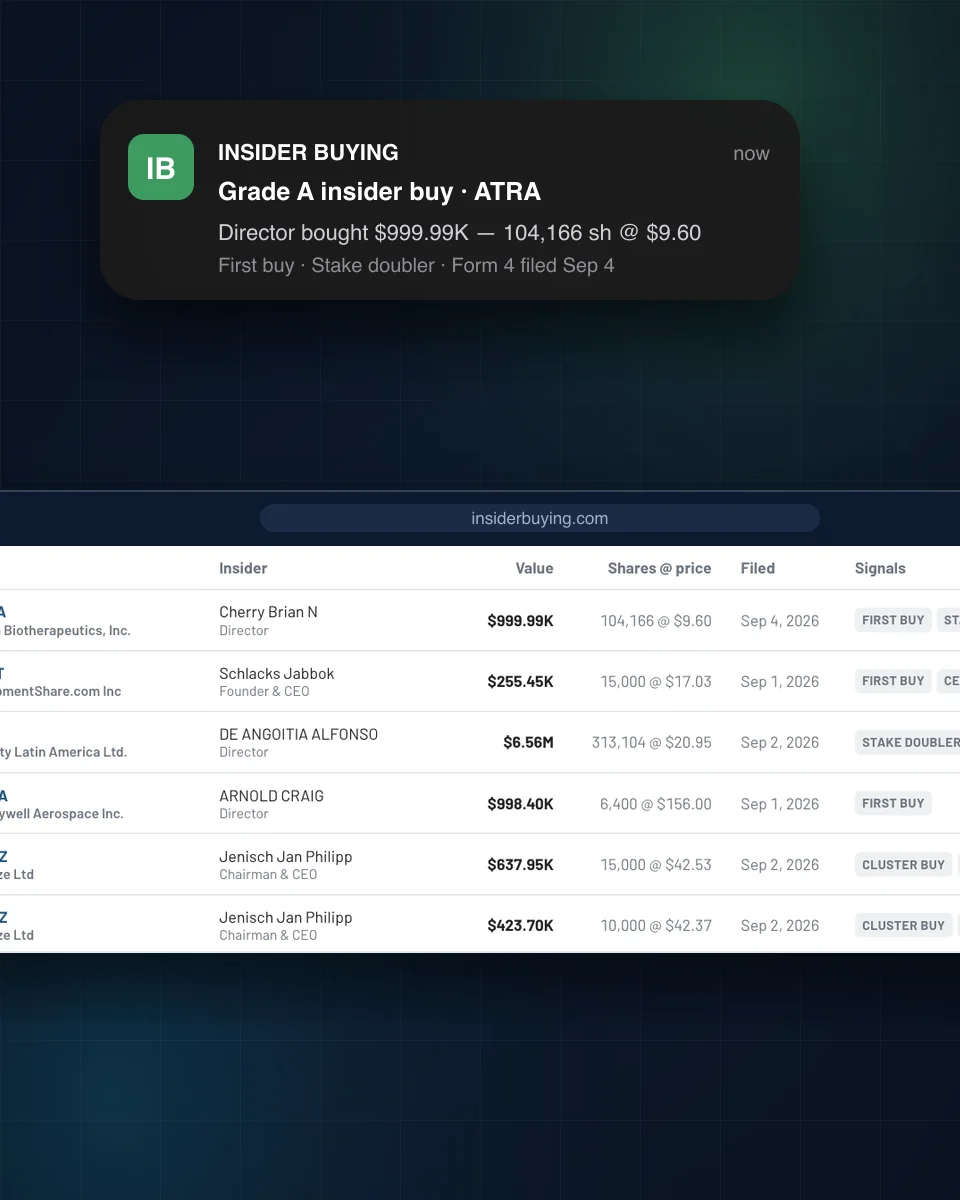
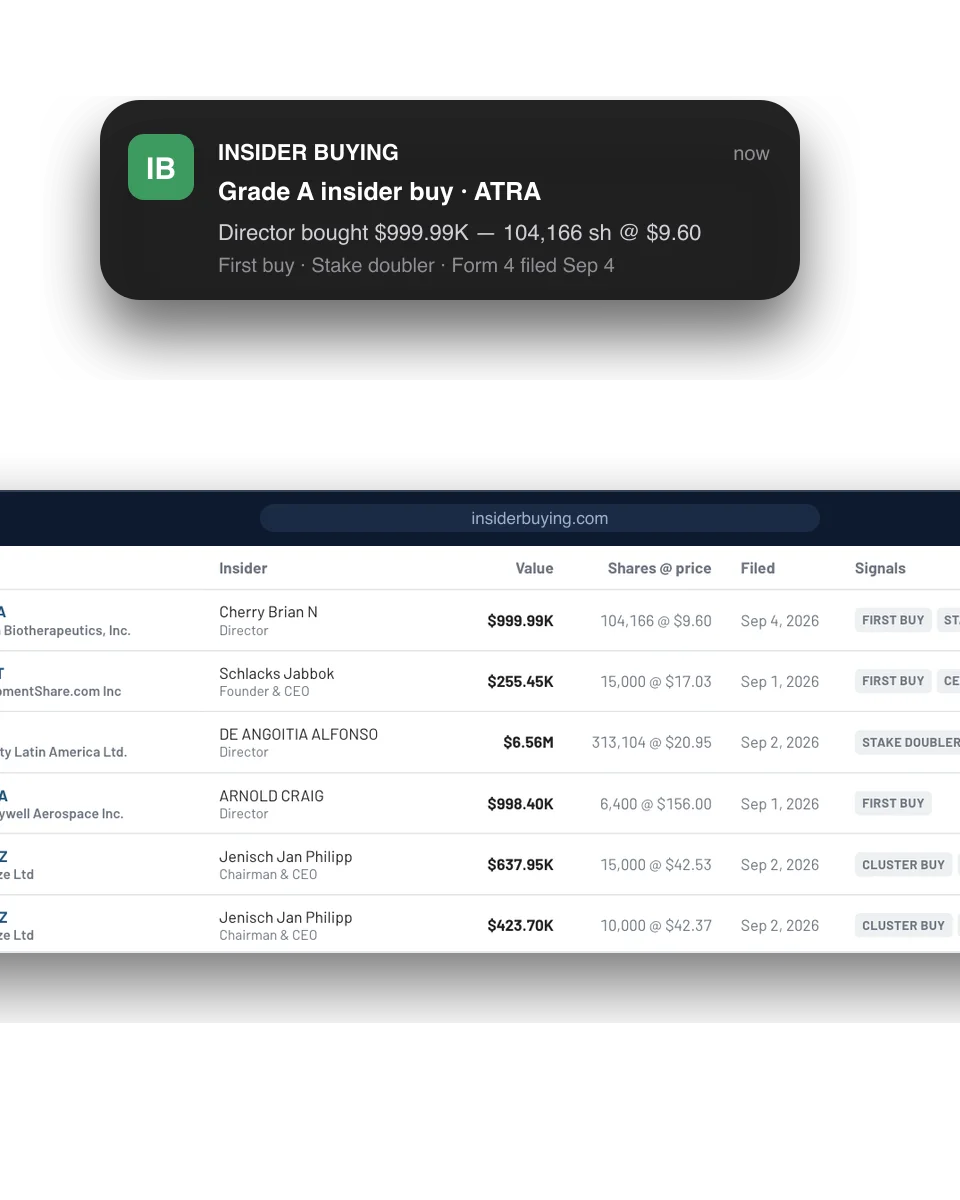
Subscribe page: product visuals render embedded, not as screenshots — transparent compositions float directly on the page, no picture box

diff --git a/frontend/components/premium/ProductShowcase.tsx b/frontend/components/premium/ProductShowcase.tsx
@@ -90,7 +90,7 @@ export const SHOWCASE: ShowcaseVisual[] = [
   },
 ];
 
-const src1x = (f: string) => `/sales/showcase/${f}.jpg`;
+const src1x = (f: string) => `/sales/showcase/${f}.webp`;
 const src2x = (f: string) => `/sales/showcase/${f}@2x.webp`;
 const srcMobile = (f: string) => `/sales/showcase/${f}-mobile.webp`;
 
@@ -135,7 +135,7 @@ export function ProductShowcase({ visuals = SHOWCASE }: { visuals?: ShowcaseVisu
                 <source media="(max-width: 640px)" srcSet={srcMobile(v.file)} type="image/webp" />
                 <source srcSet={`${src2x(v.file)} 2x, ${src1x(v.file)} 1x`} type="image/webp" />
                 <img
-                  src={src1x(v.file)}
+                  src={src2x(v.file)}
                   alt={v.alt}
                   loading="lazy"
                   decoding="async"
@@ -179,22 +179,24 @@ export const SHOWCASE_CSS = `
 .sc-row { margin: 0; display: grid; grid-template-columns: minmax(0, 1.55fr) minmax(280px, 0.85fr); gap: 44px; align-items: center; }
 .sc-row-flip .sc-frame { order: 2; }
 .sc-row-flip .sc-cap { order: 1; }
+/* Embedded, not a screenshot (client 2026-09-09): the composition is a
+   transparent render, so its browser frames and cards float directly on the
+   page — no picture box, border, backdrop or clipping around it. */
 .sc-frame {
   display: block; width: 100%; padding: 0; border: 0; background: transparent; cursor: zoom-in;
-  aspect-ratio: var(--sc-aspect, 1.6); border-radius: 22px; overflow: hidden;
-  box-shadow: 0 40px 100px rgba(0,0,0,0.45), 0 0 0 1px var(--panel-line-c);
-  transition: transform .35s cubic-bezier(.22,1,.36,1), box-shadow .35s;
+  aspect-ratio: var(--sc-aspect, 1.6); overflow: visible;
+  transition: transform .35s cubic-bezier(.22,1,.36,1);
 }
-.sc-frame:hover { transform: translateY(-4px) scale(1.01); box-shadow: 0 50px 120px rgba(0,0,0,0.55), 0 0 0 1px var(--panel-line-c); }
-.sc-frame:focus-visible { outline: 3px solid var(--brand); outline-offset: 3px; }
-.sc-frame picture, .sc-frame img { display: block; width: 100%; height: 100%; object-fit: cover; background: #0E1A2E; }
+.sc-frame:hover { transform: translateY(-4px); }
+.sc-frame:focus-visible { outline: 3px solid var(--brand); outline-offset: 6px; border-radius: 12px; }
+.sc-frame picture, .sc-frame img { display: block; width: 100%; height: 100%; object-fit: contain; background: transparent; }
 .sc-cap h3 { font-family: var(--font-heading), sans-serif; font-weight: 900; font-size: clamp(24px, 2.4vw, 32px); line-height: 1.1; letter-spacing: -0.015em; color: var(--ink); margin: 0 0 12px; }
 .sc-cap p { font-size: 16.5px; line-height: 1.6; color: var(--dim); margin: 0 0 16px; }
 .sc-cap ul { list-style: none; margin: 0; padding: 0; display: grid; gap: 9px; }
 .sc-cap li { position: relative; padding-left: 22px; font-size: 14.5px; line-height: 1.45; color: var(--ink); }
 .sc-cap li::before { content: ""; position: absolute; left: 0; top: 7px; width: 10px; height: 10px; border-radius: 50%; background: var(--green-hi); box-shadow: 0 0 0 3px rgba(76,195,138,0.18); }
 .sc-lightbox { position: fixed; inset: 0; z-index: 120; background: rgba(4,10,20,0.92); display: grid; place-content: center; padding: 24px; gap: 14px; cursor: zoom-out; }
-.sc-lightbox img { max-width: min(1600px, 96vw); max-height: 84vh; width: auto; height: auto; border-radius: 16px; box-shadow: 0 40px 120px rgba(0,0,0,0.6); cursor: default; }
+.sc-lightbox img { max-width: min(1600px, 96vw); max-height: 84vh; width: auto; height: auto; cursor: default; }
 .sc-lightbox-cap { color: var(--dim); text-align: center; font-size: 14px; margin: 0; max-width: 820px; }
 .sc-close { position: fixed; top: 18px; right: 18px; width: 44px; height: 44px; border-radius: 50%; border: 1px solid var(--line); background: rgba(19,33,55,0.9); color: var(--ink); display: grid; place-items: center; cursor: pointer; }
 @media (max-width: 960px) {
@@ -203,6 +205,6 @@ export const SHOWCASE_CSS = `
   .sc-grid { gap: 64px; }
 }
 @media (max-width: 640px) {
-  .sc-frame { aspect-ratio: var(--sc-aspect-m, 0.8); border-radius: 16px; }
+  .sc-frame { aspect-ratio: var(--sc-aspect-m, 0.8); }
 }
 `;
